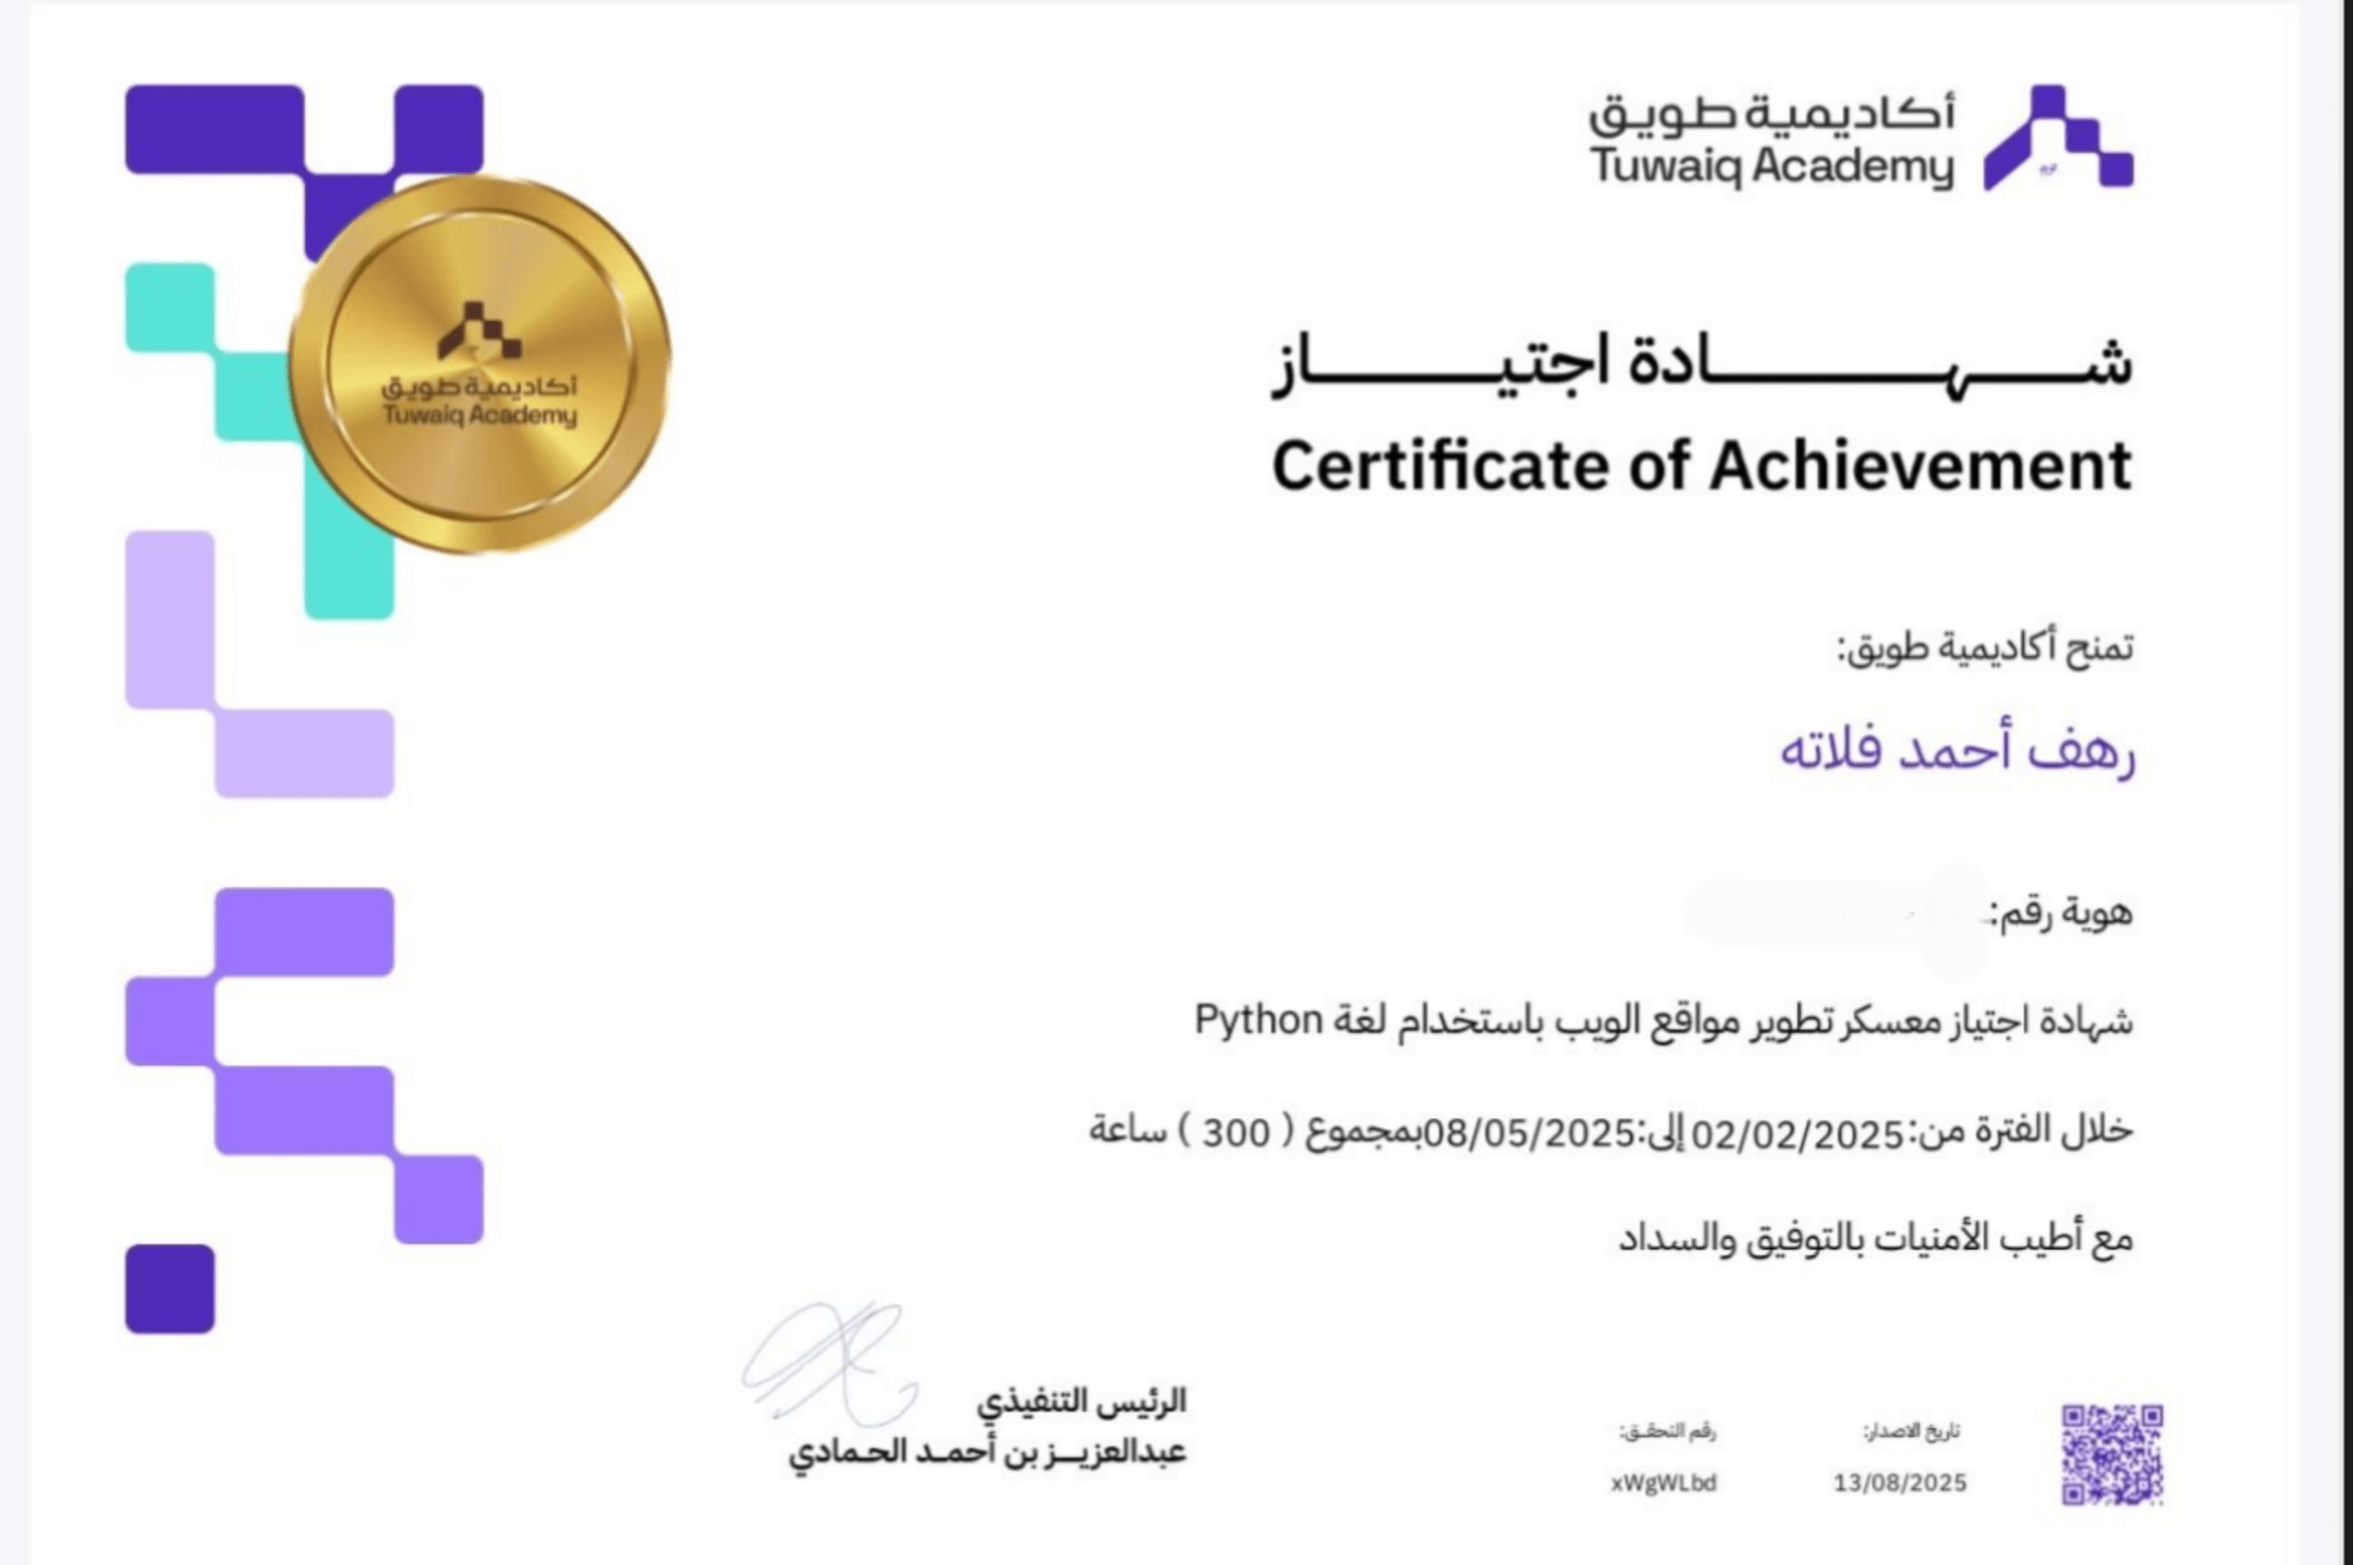
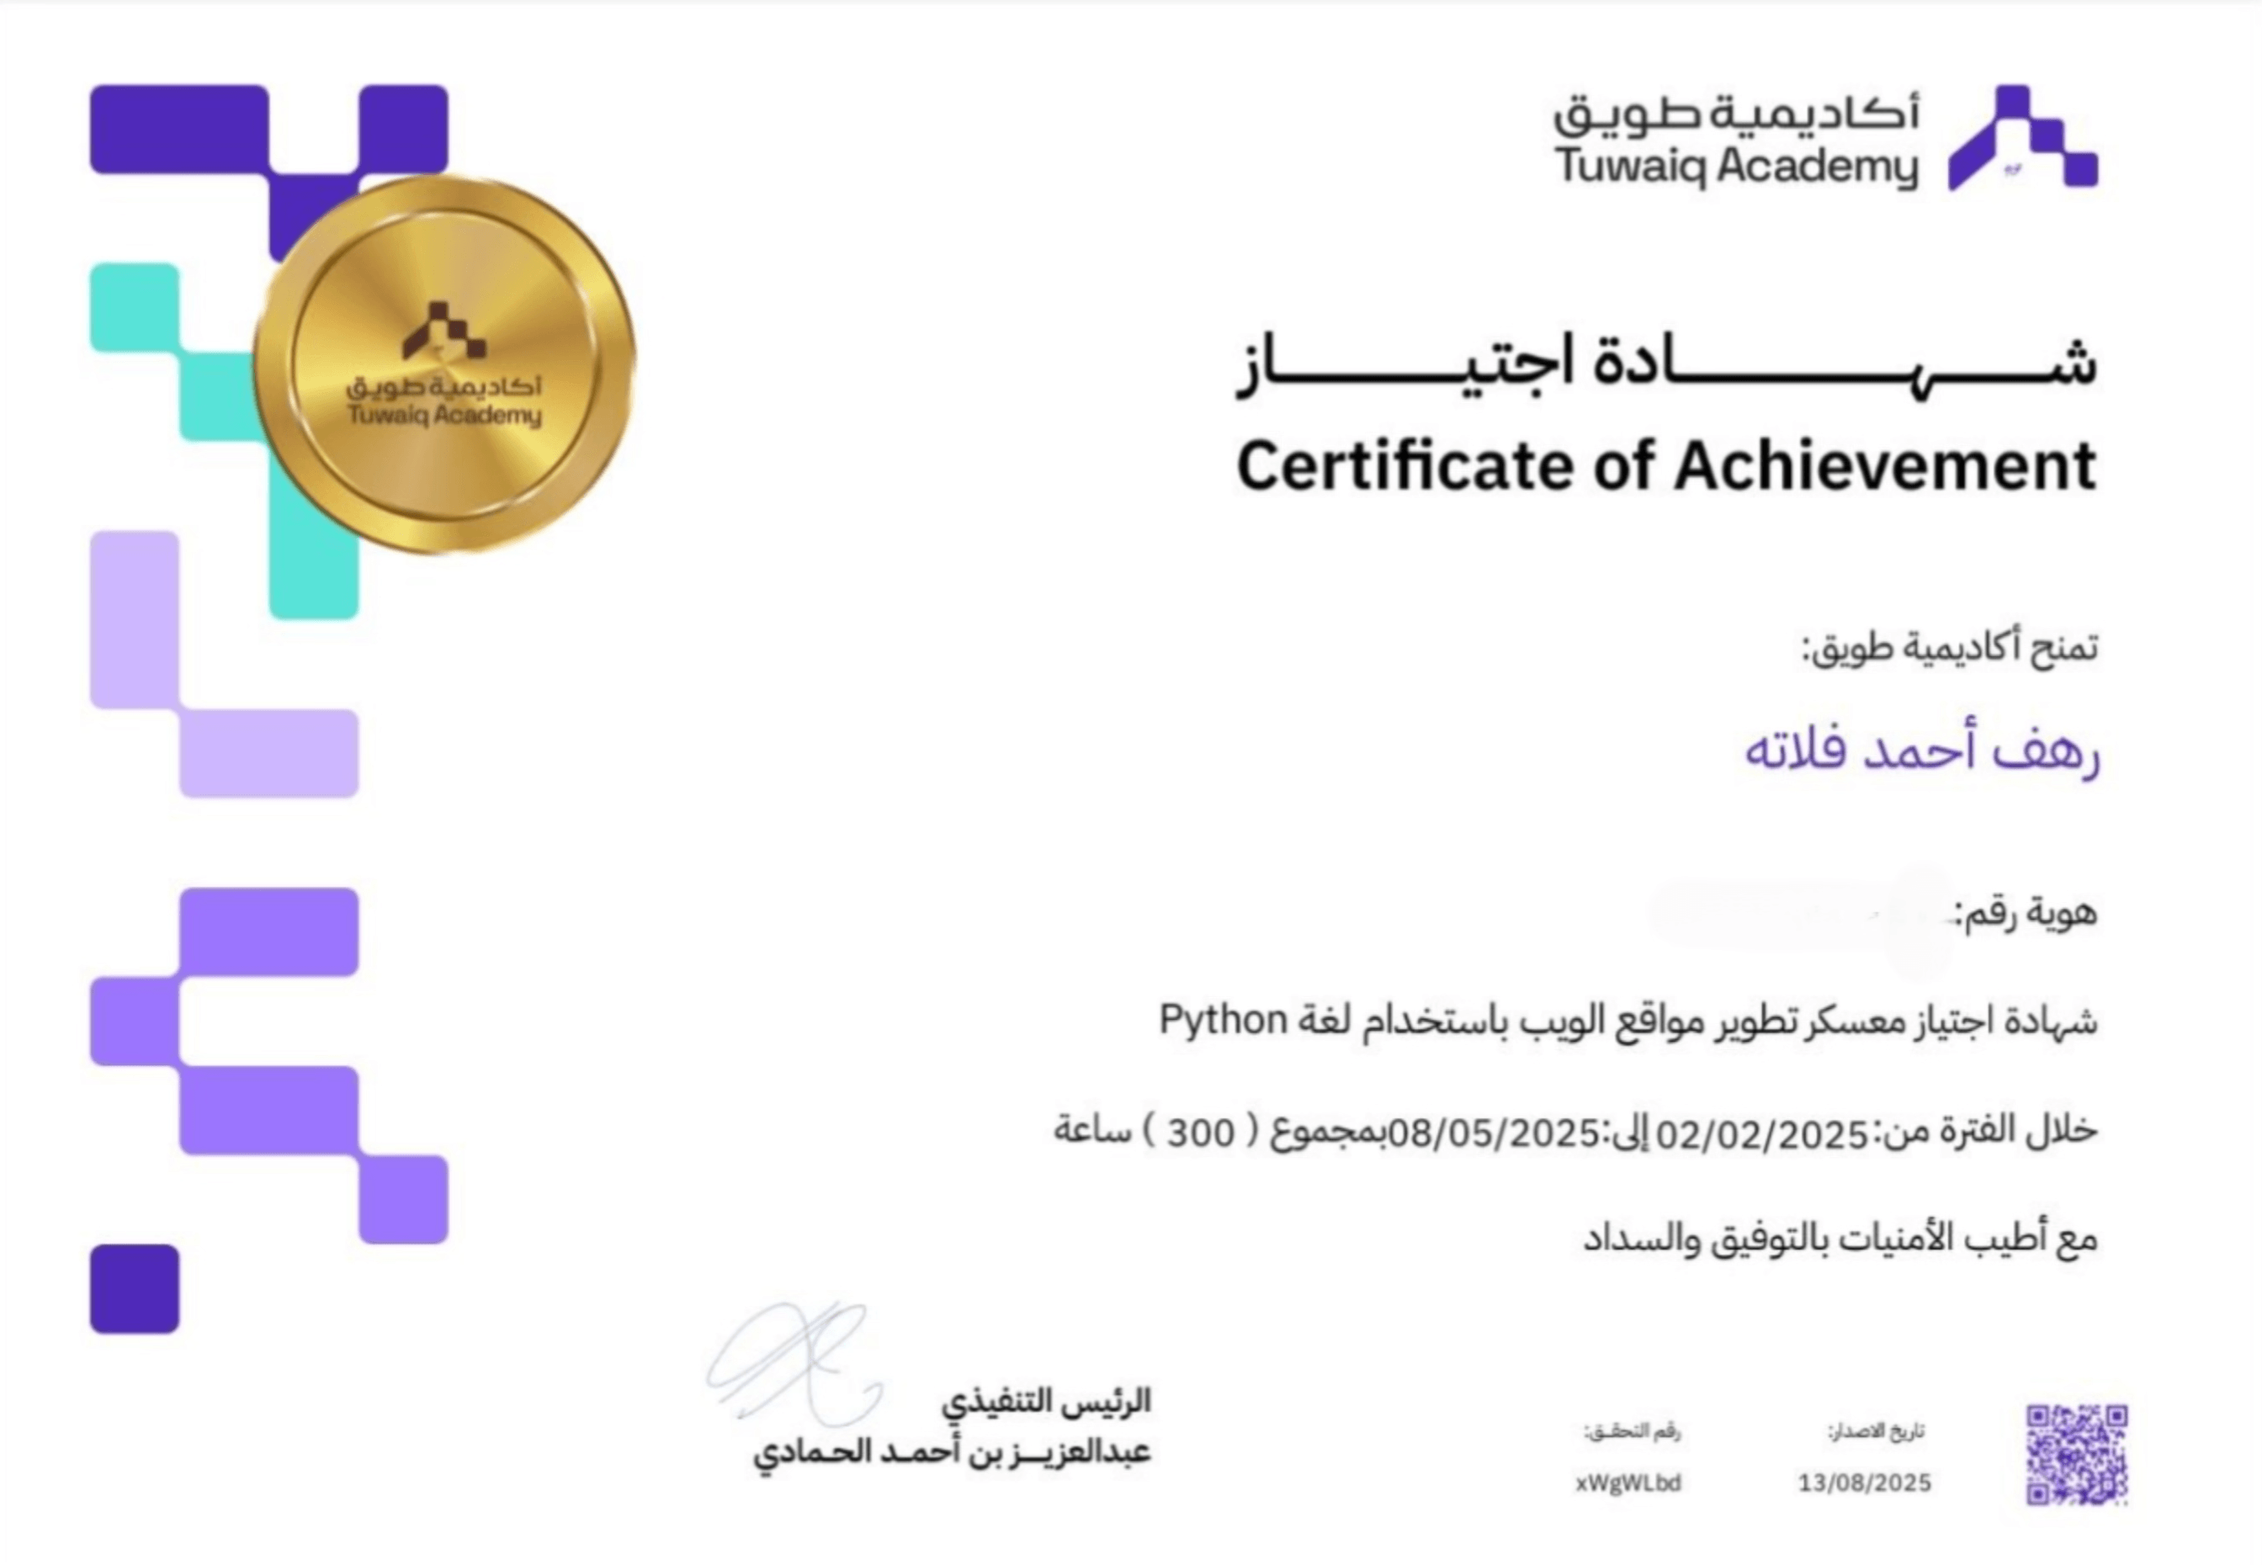
Update certificate images and crop borders

diff --git a/src/features/portfolio/components/Certificates.jsx b/src/features/portfolio/components/Certificates.jsx
@@ -169,13 +169,13 @@ export default function Certificates() {
                                 marginBottom: '18px',
                                 background: isDarkMode ? '#160b2e' : '#f8fafc',
                                 width: '100%',
-                                aspectRatio: '16 / 10'
+                                boxShadow: isDarkMode ? 'inset 0 2px 4px rgba(0,0,0,0.4)' : 'inset 0 2px 4px rgba(0,0,0,0.02)'
                             }}>
                                 <Image
                                     src={credentials[selectedCert].certificateImage}
                                     alt="Certificate Preview"
-                                    style={{ width: '100%', height: '100%', objectFit: 'cover', display: 'block' }}
-                                    styles={{ root: { width: '100%', height: '100%', display: 'block' } }}
+                                    style={{ width: '100%', height: 'auto', display: 'block', objectFit: 'contain' }}
+                                    styles={{ root: { width: '100%', display: 'block' } }}
                                 />
                             </div>
 
